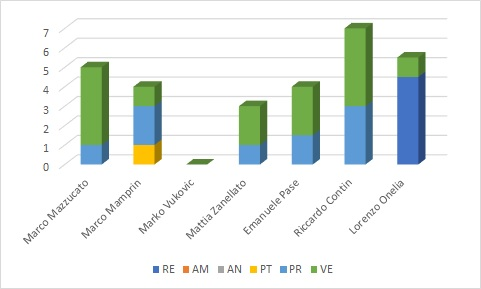
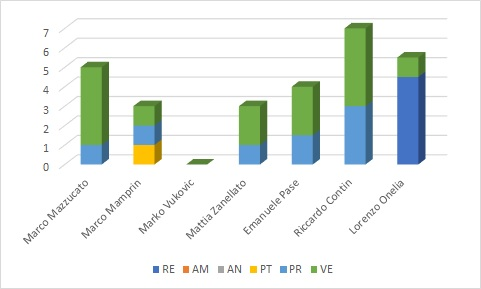
Consuntivo11

Changed region(s): [[0.2495, 0.2803, 0.343, 0.4671]]

diff --git a/src/documenti/esterni/PdP/contenuti/consuntivo.tex b/src/documenti/esterni/PdP/contenuti/consuntivo.tex
@@ -1014,3 +1014,102 @@ Gli obiettivi raggiunti dal gruppo durante questo periodo sono:
 
 \subsubsection{Conclusioni}
 Questo sprint è stato utilizzato dal gruppo per terminare ed organizzare al meglio la documentazione e il prodotto richiesti durante la revisione PB. Non sono state trovate particolari difficoltà grazie ad un'adeguata divisione dei compiti che ha portato al raggiungimento di tutti gli obiettivi prefissati.
+
+\newpage
+\section{Verso la CA}
+
+\subsection{Undicesimo periodo}
+\subsubsection{Consuntivo orario}
+\begin{table}[H]
+    \renewcommand\arraystretch{1.5}
+    \small
+    \centering
+        \begin{tabular}{|l|c|c|c|c|c|c|c|}
+            \hline
+            \rowcolor[HTML]{036400}
+            \textcolor{white}{\textbf{Membro}} & \multicolumn{1}{c|}{\textcolor{white}{\textbf{RE}}} & \multicolumn{1}{c|}{\textcolor{white}{\textbf{AM}}} & \multicolumn{1}{c|}{\textcolor{white}{\textbf{AN}}} & \multicolumn{1}{c|}{\textcolor{white}{\textbf{PT}}} & \multicolumn{1}{c|}{\textcolor{white}{\textbf{PR}}} & \multicolumn{1}{c|}{\textcolor{white}{\textbf{VE}}} & \multicolumn{1}{c|}{\textcolor{white}{\textbf{Totale ore persona}}} \\ \hline
+            \rowcolor[HTML]{EFEFEF}\textit{Marco Mazzucato}  & -         & -        & -          & -        & 1        & 0 (-4)       & 1 (-4)    \\ \hline
+            \rowcolor[HTML]{C0C0C0}\textit{Marco Mamprin}    & -         & -        & -          & 1        & 1        & 1            & 3   \\ \hline
+            \rowcolor[HTML]{EFEFEF}\textit{Marko Vukovic}    & -         & -        & -          & -        & -        & -            & -           \\ \hline
+            \rowcolor[HTML]{C0C0C0}\textit{Mattia Zanellato} & -         & -        & -          & -        & 1        & 2            & 3       \\ \hline
+            \rowcolor[HTML]{EFEFEF}\textit{Emanuele Pase}    & -         & -        & -          & -        & 1.5      & 2.5          & 4      \\ \hline
+            \rowcolor[HTML]{C0C0C0}\textit{Riccardo Contin}  & -         & -        & -          & -        & 3        & 3 (-1)       & 6 (-1)           \\ \hline
+            \rowcolor[HTML]{EFEFEF}\textit{Lorenzo Onelia}   & 4.5       & -        & -          & -        & -        & 1            & 5.5        \\ \hline
+            \rowcolor[HTML]{C0C0C0}\textbf{Totale ore ruolo} & 4.5       & -        & -          & 1        & 8.5      & 9.5 (-5)     & 23.5 (-5)  \\ \hline
+        \end{tabular}
+    \caption{Distribuzione delle ore per la undicesima milestone}
+\end{table}
+
+\begin{table}[H]
+    \renewcommand\arraystretch{1.5}
+    \centering
+    \begin{tabular}{|l|c|c|c|c|c|c|c|}
+    \hline
+    \rowcolor[HTML]{036400}
+    \textcolor{white}{\textbf{Membro}} & \multicolumn{1}{c|}{\textcolor{white}{\textbf{RE}}} & \multicolumn{1}{c|}{\textcolor{white}{\textbf{AM}}} & \multicolumn{1}{c|}{\textcolor{white}{\textbf{AN}}} & \multicolumn{1}{c|}{\textcolor{white}{\textbf{PT}}} & \multicolumn{1}{c|}{\textcolor{white}{\textbf{PR}}} & \multicolumn{1}{c|}{\textcolor{white}{\textbf{VE}}} & \multicolumn{1}{c|}{\textcolor{white}{\textbf{Totale ore persona}}} \\ \hline
+    \rowcolor[HTML]{EFEFEF}\textit{Marco Mazzucato}  & 0    & 0    & 0     & 0     & 0     & 4      & 4   \\ \hline
+    \rowcolor[HTML]{C0C0C0}\textit{Marco Mamprin}    & 6    & 0.5  & 0     & 0     & 0     & 1.5    & 8   \\ \hline
+    \rowcolor[HTML]{EFEFEF}\textit{Marko Vukovic}    & 0    & 0    & 0     & 0     & 0     & 0      & 0    \\ \hline
+    \rowcolor[HTML]{C0C0C0}\textit{Mattia Zanellato} & 0    & 0    & 0     & 0     & 3     & 3      & 6   \\ \hline
+    \rowcolor[HTML]{EFEFEF}\textit{Emanuele Pase}    & 0    & 0    & 0     & 0     & 0     & 2      & 2 \\ \hline
+    \rowcolor[HTML]{C0C0C0}\textit{Riccardo Contin}  & 0    & 0    & 0     & 0     & 2     & 4      & 6   \\ \hline
+    \rowcolor[HTML]{EFEFEF}\textit{Lorenzo Onelia}   & 0    & 0    & 0     & 0     & 2.5   & 1.5    & 4 \\ \hline
+    \rowcolor[HTML]{C0C0C0}\textbf{Totale ore ruolo} & 6    & 0.5  & 0     & 0     & 7.5   & 16     & 30   \\ \hline
+    \end{tabular}
+    \caption{Ore rimaste dopo la undicesima milestone}
+\end{table}
+
+\subsubsection{Consuntivo economico}
+
+\begin{table}[H]
+    \renewcommand\arraystretch{1.5}
+    \centering
+    \begin{tabular}{|l|c|c|}
+    \hline
+    \rowcolor[HTML]{036400}
+    \textcolor{white}{\textbf{Ruolo}} & \multicolumn{1}{l|}{\textcolor{white}{\textbf{Ore}}} & \multicolumn{1}{l|}{\textcolor{white}{\textbf{Costo (€)}}} \\ \hline
+    \rowcolor[HTML]{EFEFEF}\textit{Responsabile}      & 4.5         & 135            \\ \hline
+    \rowcolor[HTML]{C0C0C0}\textit{Amministratore}    & 0           & 0              \\ \hline
+    \rowcolor[HTML]{EFEFEF}\textit{Analista}          & 0           & 0               \\ \hline
+    \rowcolor[HTML]{C0C0C0}\textit{Progettista}       & 1           & 25      \\ \hline
+    \rowcolor[HTML]{EFEFEF}\textit{Programmatore}     & 8.5         & 127.5        \\ \hline
+    \rowcolor[HTML]{C0C0C0}\textit{Verificatore}      & 9.5 (-5)    & 142.5 (-75)   \\ \hline
+    \rowcolor[HTML]{EFEFEF}\textbf{Totale Preventivo} & 28.5        & 505          \\ \hline
+    \rowcolor[HTML]{C0C0C0}\textbf{Totale Consuntivo} & 23.5        & 430            \\ \hline
+    \rowcolor[HTML]{EFEFEF}\textbf{Differenza}        & -5          & -75            \\ \hline
+    \end{tabular}
+    \caption{Consuntivo dei costi per la undicesima milestone}
+\end{table}
+
+\subsubsection{Preventivo economico a finire}
+
+\begin{table}[H]
+    \renewcommand\arraystretch{1.5}
+    \centering
+    \begin{tabular}{|l|c|c|}
+    \hline
+    \rowcolor[HTML]{036400}
+    \textcolor{white}{\textbf{Ruolo}} & \multicolumn{1}{l|}{\textcolor{white}{\textbf{Ore}}} & \multicolumn{1}{l|}{\textcolor{white}{\textbf{Costo (€)}}} \\ \hline
+    \rowcolor[HTML]{EFEFEF}\textit{Responsabile}      & 6            & 180               \\ \hline
+    \rowcolor[HTML]{C0C0C0}\textit{Amministratore}    & 0.5          & 10                \\ \hline
+    \rowcolor[HTML]{EFEFEF}\textit{Analista}          & 0            & 0                 \\ \hline
+    \rowcolor[HTML]{C0C0C0}\textit{Progettista}       & 0            & 0                \\ \hline
+    \rowcolor[HTML]{EFEFEF}\textit{Programmatore}     & 7.5          & 112.5               \\ \hline
+    \rowcolor[HTML]{C0C0C0}\textit{Verificatore}      & 16           & 240             \\ \hline
+    \rowcolor[HTML]{EFEFEF}\textbf{Totale Preventivo} & 30          & 507.5            \\ \hline
+    \end{tabular}
+    \caption{Preventivo economico a finire}
+\end{table}
+
+\subsubsection{Obiettivi}
+Gli obiettivi raggiunti dal gruppo durante questo periodo sono:
+\begin{itemize}
+    \item Redatto il \textit{Manuale Sviluppatore};
+    \item Implementato i feedback per l'utente al prodotto;
+    \item Avanzato lo stato del Force Directed Graph;
+    \item Risolto alcuni bachi del prodotto;
+    \item Superata la revisione PB.
+\end{itemize}
+
+\subsubsection{Conclusioni}
+Grazie al rafforzarsi del nostro way of working e grazie all'esperienza acquisita, questo sprint è stato molto produttivo, infatti è stato redatto il \textit{Manuale Sviluppatore} e raggiunto un livello di maturità del prodotto quasi finale. Inoltre è stata superata la revisione PB con una valutazione gratificante. Abbiamo però ricevuto dei feedback negativi sulla prima presentazione che ci hanno fatto riflettere e quindi miglioreremo dai nostri errori.

diff --git a/src/documenti/esterni/PdP/contenuti/preventivo.tex b/src/documenti/esterni/PdP/contenuti/preventivo.tex
@@ -789,7 +789,7 @@ Gli obiettivi di questo periodo sono:
     \rowcolor[HTML]{036400}
     \textcolor{white}{\textbf{Membro}} & \multicolumn{1}{l|}{\textcolor{white}{\textbf{RE}}} & \multicolumn{1}{l|}{\textcolor{white}{\textbf{AM}}} & \multicolumn{1}{l|}{\textcolor{white}{\textbf{AN}}} & \multicolumn{1}{l|}{\textcolor{white}{\textbf{PT}}} & \multicolumn{1}{l|}{\textcolor{white}{\textbf{PR}}} & \multicolumn{1}{l|}{\textcolor{white}{\textbf{VE}}} & \multicolumn{1}{l|}{\textcolor{white}{\textbf{Totale ore persona}}} \\ \hline
     \rowcolor[HTML]{EFEFEF}\textit{Marco Mazzucato}  & -   & -   & -  & -    & 1    & 4      & 5     \\ \hline
-    \rowcolor[HTML]{C0C0C0}\textit{Marco Mamprin}    & -   & -   & -  & 1    & 2    & 1      & 4     \\ \hline
+    \rowcolor[HTML]{C0C0C0}\textit{Marco Mamprin}    & -   & -   & -  & 1    & 1    & 1      & 3     \\ \hline
     \rowcolor[HTML]{EFEFEF}\textit{Marko Vukovic}    & -   & -   & -  & -    & -    & -      & -     \\ \hline
     \rowcolor[HTML]{C0C0C0}\textit{Mattia Zanellato} & -   & -   & -  & -    & 1    & 2      & 3     \\ \hline
     \rowcolor[HTML]{EFEFEF}\textit{Emanuele Pase}    & -   & -   & -  & -    & 1.5  & 2.5    & 4     \\ \hline
@@ -824,9 +824,9 @@ Gli obiettivi di questo periodo sono:
     \rowcolor[HTML]{C0C0C0}\textit{Amministratore} & 0  & 0     \\ \hline
     \rowcolor[HTML]{EFEFEF}\textit{Analista}       & 0    & 0      \\ \hline
     \rowcolor[HTML]{C0C0C0}\textit{Progettista}    & 1    & 25     \\ \hline
-    \rowcolor[HTML]{EFEFEF}\textit{Programmatore}  & 8.5   & 127.5    \\ \hline
+    \rowcolor[HTML]{EFEFEF}\textit{Programmatore}  & 7.5   & 112.5    \\ \hline
     \rowcolor[HTML]{C0C0C0}\textit{Verificatore}   & 14.5   & 217.5    \\ \hline
-    \rowcolor[HTML]{EFEFEF}\textbf{Totale}         & 28.5 & 505    \\ \hline
+    \rowcolor[HTML]{EFEFEF}\textbf{Totale}         & 27.5 & 490   \\ \hline
     \end{tabular}
     \caption{Prospetto dei costi per la undicesima milestone}
 \end{table}
